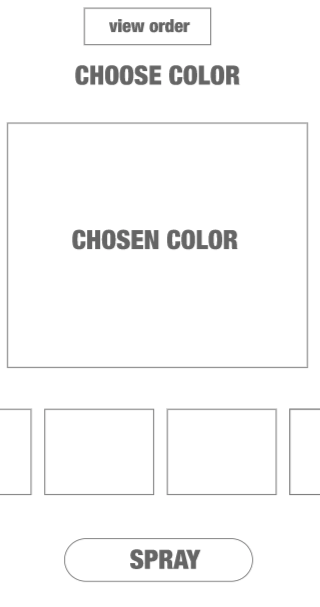
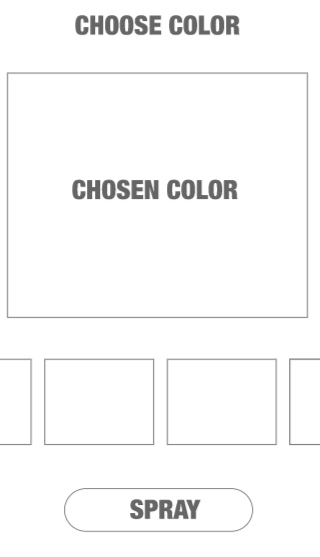
added remainder of order pages.

diff --git a/src/store.ts b/src/store.ts
@@ -8,6 +8,10 @@ export type OrderId = string | number | null;
 export interface AppContext {
 	// current active order
 	orderId: OrderId;
+	// how many orders are fulfilled
+	fulfilled: number;
+	// how many orders need to be fulfilled
+	backlog: number;
 }
 
 export type AppEvent =
@@ -30,6 +34,8 @@ export const storeMachine = createMachine({
 		events: createSchema<AppEvent>(),
 	},
 	context: {
+		fulfilled: 0,
+		backlog: 3,
 		orderId: null,
 	},
 	states: {
@@ -46,10 +52,11 @@ export const storeMachine = createMachine({
 		default: {
 			on: {
 				PREVIOUS: { target: 'init' },
-				FULFILL: { actions: 'fullfill', target: 'order' }
+				FULFILL: { actions: 'fulfill', target: 'order' }
 			}
 		},
 		order: {
+			id: "order",
 			initial: 'color',
 			states: {
 				color: {
@@ -57,17 +64,58 @@ export const storeMachine = createMachine({
 						NEXT: { target: 'frame' }
 					}
 				},
-				frame: {}
+				frame: {
+					on: {
+						NEXT: { target: 'bake' }
+					}
+				},
+				bake: {
+					on: {
+						NEXT: { target: 'seat' }
+					}
+				},
+				seat: {
+					on: {
+						NEXT: { target: 'wheels' }
+					}
+				},
+				wheels: {
+					on: {
+						NEXT: { target: 'handles' }
+					}
+				},
+				handles: {
+					on: {
+						NEXT: { target: 'shipit' }
+					}
+				},
+				shipit: {
+					on: {
+						NEXT: { target: 'complete' }
+					}
+				},
+				complete: {
+					on: {
+						'': [
+							{ target: '#app.default', actions: 'orderShip' }
+						]
+					}
+				}
 			}
 		}
 	},
 }, {
 	// Actions (anything that directly mutates state)
 	actions: {
-		fulfill: (context, event) => {
-			if (event.type !== 'FULFILL') return
-			assign({ orderId: event.orderId })
-		}
+		fulfill: assign((context, event) => {
+			// this looks weird but it was the only way typescript would
+			// accept it.
+			if (event.type === 'FULFILL') return {orderId: event.orderId }
+			return {};
+		}),
+		orderShip: assign((context, event) => {
+			return { orderId: null, fulfilled: context.fulfilled + 1 }
+		}),
 	},
 })
 

diff --git a/src/XstateLitExample.ts b/src/XstateLitExample.ts
@@ -9,6 +9,11 @@ import './pages/p-init.js';
 import './pages/p-default.js';
 import './pages/p-order-color.js';
 import './pages/p-order-frame.js';
+import './pages/p-order-bake.js';
+import './pages/p-order-seat.js';
+import './pages/p-order-wheels.js';
+import './pages/p-order-handles.js';
+import './pages/p-order-shipit.js';
 
 export class XstateLitExample extends LitElement {
   static styles = css`
@@ -53,7 +58,7 @@ export class XstateLitExample extends LitElement {
   }
 
   public storeUpdated() {
-    console.log(this.store.state.event);
+    console.table({state: this.store.state.value, ...this.store.state.context });
   }
 
   render() {
@@ -64,6 +69,11 @@ export class XstateLitExample extends LitElement {
         <p-default class="${this.store.state.matches('default') ? 'active': ''}" ${animate(XstateLitExample.animateOptions)}></p-default>
         <p-order-color class="${this.store.state.matches({order: 'color'}) ? 'active': ''}" ${animate(XstateLitExample.animateOptions)}></p-order-color>
         <p-order-frame class="${this.store.state.matches({order: 'frame'}) ? 'active': ''}" ${animate(XstateLitExample.animateOptions)}></p-order-frame>
+        <p-order-bake class="${this.store.state.matches({order: 'bake'}) ? 'active': ''}" ${animate(XstateLitExample.animateOptions)}></p-order-bake>
+        <p-order-seat class="${this.store.state.matches({order: 'seat'}) ? 'active': ''}" ${animate(XstateLitExample.animateOptions)}></p-order-seat>
+        <p-order-wheels class="${this.store.state.matches({order: 'wheels'}) ? 'active': ''}" ${animate(XstateLitExample.animateOptions)}></p-order-wheels>
+        <p-order-handles class="${this.store.state.matches({order: 'handles'}) ? 'active': ''}" ${animate(XstateLitExample.animateOptions)}></p-order-handles>
+        <p-order-shipit class="${this.store.state.matches({order: 'shipit'}) ? 'active': ''}" ${animate(XstateLitExample.animateOptions)}></p-order-shipit>
       </div>
     `;
   }

diff --git a/src/pages/p-order-frame.ts b/src/pages/p-order-frame.ts
@@ -1,7 +1,7 @@
 import { LitElement, html, css } from 'lit';
 import { property, state } from 'lit/decorators.js';
 import { StoreBase } from '../StoreBase.js';
-import '../components/c-page.js';
+import '../components/c-order-page.js';
 import '../components/c-sketch.js';
 
 export class POrderFrame extends StoreBase {
@@ -16,21 +16,21 @@ export class POrderFrame extends StoreBase {
 
     #sketch {
       position: absolute;
-      top: 214px;
-      width: 300px;
+      top: 72px;
+      width: 478px;
       height: 246px;
-      left: calc(50% - calc(300px / 2));
+      left: calc(50% - 150px);
     }
   `;
 
   render() {
     return html`
-      <c-page id="page">
+      <c-order-page id="page">
         <a href="#" @click=${() => this.store.send({ type: 'NEXT' })}>
           <img src=${new URL('../../../assets/page-4.png', import.meta.url)}>
         </a>
         <c-sketch id="sketch"></c-sketch>
-      </c-page>
+      </c-order-page>
     `;
   }
 }

diff --git a/src/components/c-order-nav.ts b/src/components/c-order-nav.ts
@@ -3,33 +3,20 @@ import { property, state } from 'lit/decorators.js';
 import { StoreBase } from '../store.js';
 import { variable } from '../globals.js';
 
-export class CNav extends StoreBase {
+export class COrderNav extends StoreBase {
   static styles = css`
     :host {
-			height: ${variable('navHeight')};
 			display: block;
     }
-
-		.base {
-			display: block;
-		}
-
-		img {
-			width: 100%;
-			max-width: 400px;
-		}
   `;
 
   render() {
     return html`
 			<div class="base" part="base">
-				${!this.store.state.matches('init') ? html`
-					<img src=${new URL('../../../assets/nav.png', import.meta.url)}>
-				` : ''}
-				<br>
+				<button>View Order</button>
 			</div>
     `;
   }
 }
 
-customElements.define('c-nav', CNav);
+customElements.define('c-order-nav', COrderNav);

diff --git a/src/pages/p-order-color.ts b/src/pages/p-order-color.ts
@@ -1,7 +1,7 @@
 import { LitElement, html, css } from 'lit';
 import { property, state } from 'lit/decorators.js';
 import { StoreBase } from '../store.js';
-import '../components/c-page.js';
+import '../components/c-order-page.js';
 
 export class POrderColor extends StoreBase {
   static styles = css`
@@ -12,11 +12,11 @@ export class POrderColor extends StoreBase {
 
   render() {
     return html`
-      <c-page>
+      <c-order-page>
 				<a href="#" @click=${() => this.store.send({ type: 'NEXT' })}>
 					<img src=${new URL('../../../assets/page-3.png', import.meta.url)}>
 				</a>
-      </c-page>
+      </c-order-page>
     `;
   }
 }

diff --git a/src/pages/p-order-handles.ts b/src/pages/p-order-handles.ts
@@ -1,0 +1,24 @@
+import { LitElement, html, css } from 'lit';
+import { property, state } from 'lit/decorators.js';
+import { StoreBase } from '../StoreBase.js';
+import '../components/c-order-page.js';
+
+export class POrderHandles extends StoreBase {
+  static styles = css`
+    :host {
+      display: block;
+    }
+  `;
+
+  render() {
+    return html`
+      <c-order-page>
+        <a href="#" @click=${() => this.store.send({ type: 'NEXT' })}>
+          <img src=${new URL('../../../assets/page-8.png', import.meta.url)}>
+        </a>
+      </c-order-page>
+    `;
+  }
+}
+
+customElements.define('p-order-handles', POrderHandles);

diff --git a/src/pages/p-order-shipit.ts b/src/pages/p-order-shipit.ts
@@ -1,0 +1,24 @@
+import { LitElement, html, css } from 'lit';
+import { property, state } from 'lit/decorators.js';
+import { StoreBase } from '../StoreBase.js';
+import '../components/c-order-page.js';
+
+export class POrderShipit extends StoreBase {
+  static styles = css`
+    :host {
+      display: block;
+    }
+  `;
+
+  render() {
+    return html`
+      <c-order-page>
+        <a href="#" @click=${() => this.store.send({ type: 'NEXT' })}>
+          <img src=${new URL('../../../assets/page-9.png', import.meta.url)}>
+        </a>
+      </c-order-page>
+    `;
+  }
+}
+
+customElements.define('p-order-shipit', POrderShipit);

diff --git a/src/pages/p-order-wheels.ts b/src/pages/p-order-wheels.ts
@@ -1,0 +1,24 @@
+import { LitElement, html, css } from 'lit';
+import { property, state } from 'lit/decorators.js';
+import { StoreBase } from '../StoreBase.js';
+import '../components/c-order-page.js';
+
+export class POrderWheels extends StoreBase {
+  static styles = css`
+    :host {
+      display: block;
+    }
+  `;
+
+  render() {
+    return html`
+      <c-order-page>
+        <a href="#" @click=${() => this.store.send({ type: 'NEXT' })}>
+          <img src=${new URL('../../../assets/page-7.png', import.meta.url)}>
+        </a>
+      </c-order-page>
+    `;
+  }
+}
+
+customElements.define('p-order-wheels', POrderWheels);

diff --git a/src/pages/p-order-bake.ts b/src/pages/p-order-bake.ts
@@ -1,0 +1,24 @@
+import { LitElement, html, css } from 'lit';
+import { property, state } from 'lit/decorators.js';
+import { StoreBase } from '../StoreBase.js';
+import '../components/c-order-page.js';
+
+export class POrderBake extends StoreBase {
+  static styles = css`
+    :host {
+      display: block;
+    }
+  `;
+
+  render() {
+    return html`
+      <c-order-page>
+        <a href="#" @click=${() => this.store.send({ type: 'NEXT' })}>
+          <img src=${new URL('../../../assets/page-5.png', import.meta.url)}>
+        </a>
+      </c-order-page>
+    `;
+  }
+}
+
+customElements.define('p-order-bake', POrderBake);

diff --git a/src/pages/p-order-seat.ts b/src/pages/p-order-seat.ts
@@ -1,0 +1,24 @@
+import { LitElement, html, css } from 'lit';
+import { property, state } from 'lit/decorators.js';
+import { StoreBase } from '../StoreBase.js';
+import '../components/c-order-page.js';
+
+export class POrderSeat extends StoreBase {
+  static styles = css`
+    :host {
+      display: block;
+    }
+  `;
+
+  render() {
+    return html`
+      <c-order-page>
+        <a href="#" @click=${() => this.store.send({ type: 'NEXT' })}>
+          <img src=${new URL('../../../assets/page-6.png', import.meta.url)}>
+        </a>
+      </c-order-page>
+    `;
+  }
+}
+
+customElements.define('p-order-seat', POrderSeat);

diff --git a/src/components/c-order-page.ts b/src/components/c-order-page.ts
@@ -1,0 +1,22 @@
+import { LitElement, html, css } from 'lit';
+import './c-page.js';
+import './c-order-nav.js';
+
+export class COrderPage extends LitElement {
+  static styles = css`
+    :host {
+      display: flex;
+    }
+  `;
+
+  render() {
+    return html`
+      <c-page>
+        <c-order-nav></c-order-nav>
+        <slot></slot>
+      </c-page>
+    `;
+  }
+}
+
+customElements.define('c-order-page', COrderPage);

diff --git a/src/globals.ts b/src/globals.ts
@@ -2,7 +2,7 @@ import { css } from 'lit';
 import type { CSSResult } from 'lit';
 
 export type VariableName =
-	'navHeight'
+	| 'navHeight'
 
 export interface Token {
 	prop: CSSResult;
@@ -12,7 +12,7 @@ export interface Token {
 export const tokens: Record<VariableName, Token> = Object.freeze({
 	'navHeight': {
 		prop: css`--nav-height`,
-		value: css`190px`
+		value: css`135px`
 	}
 });
 
